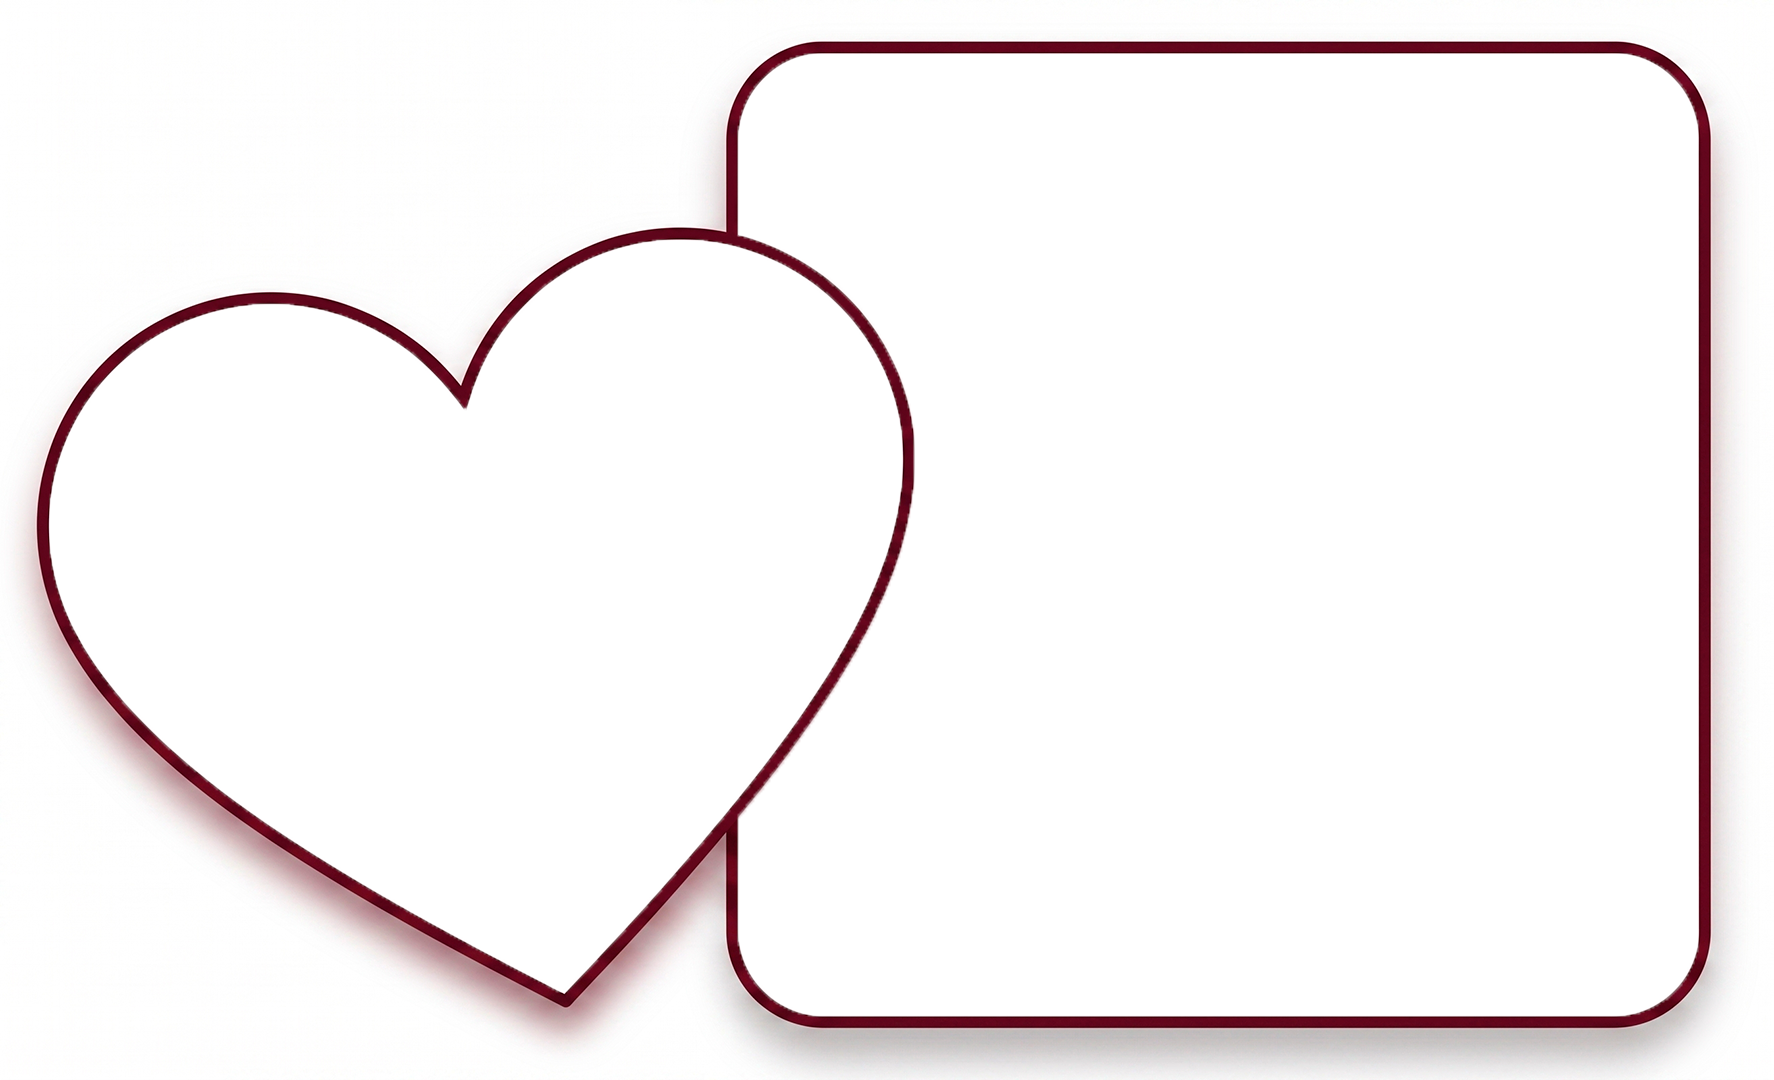
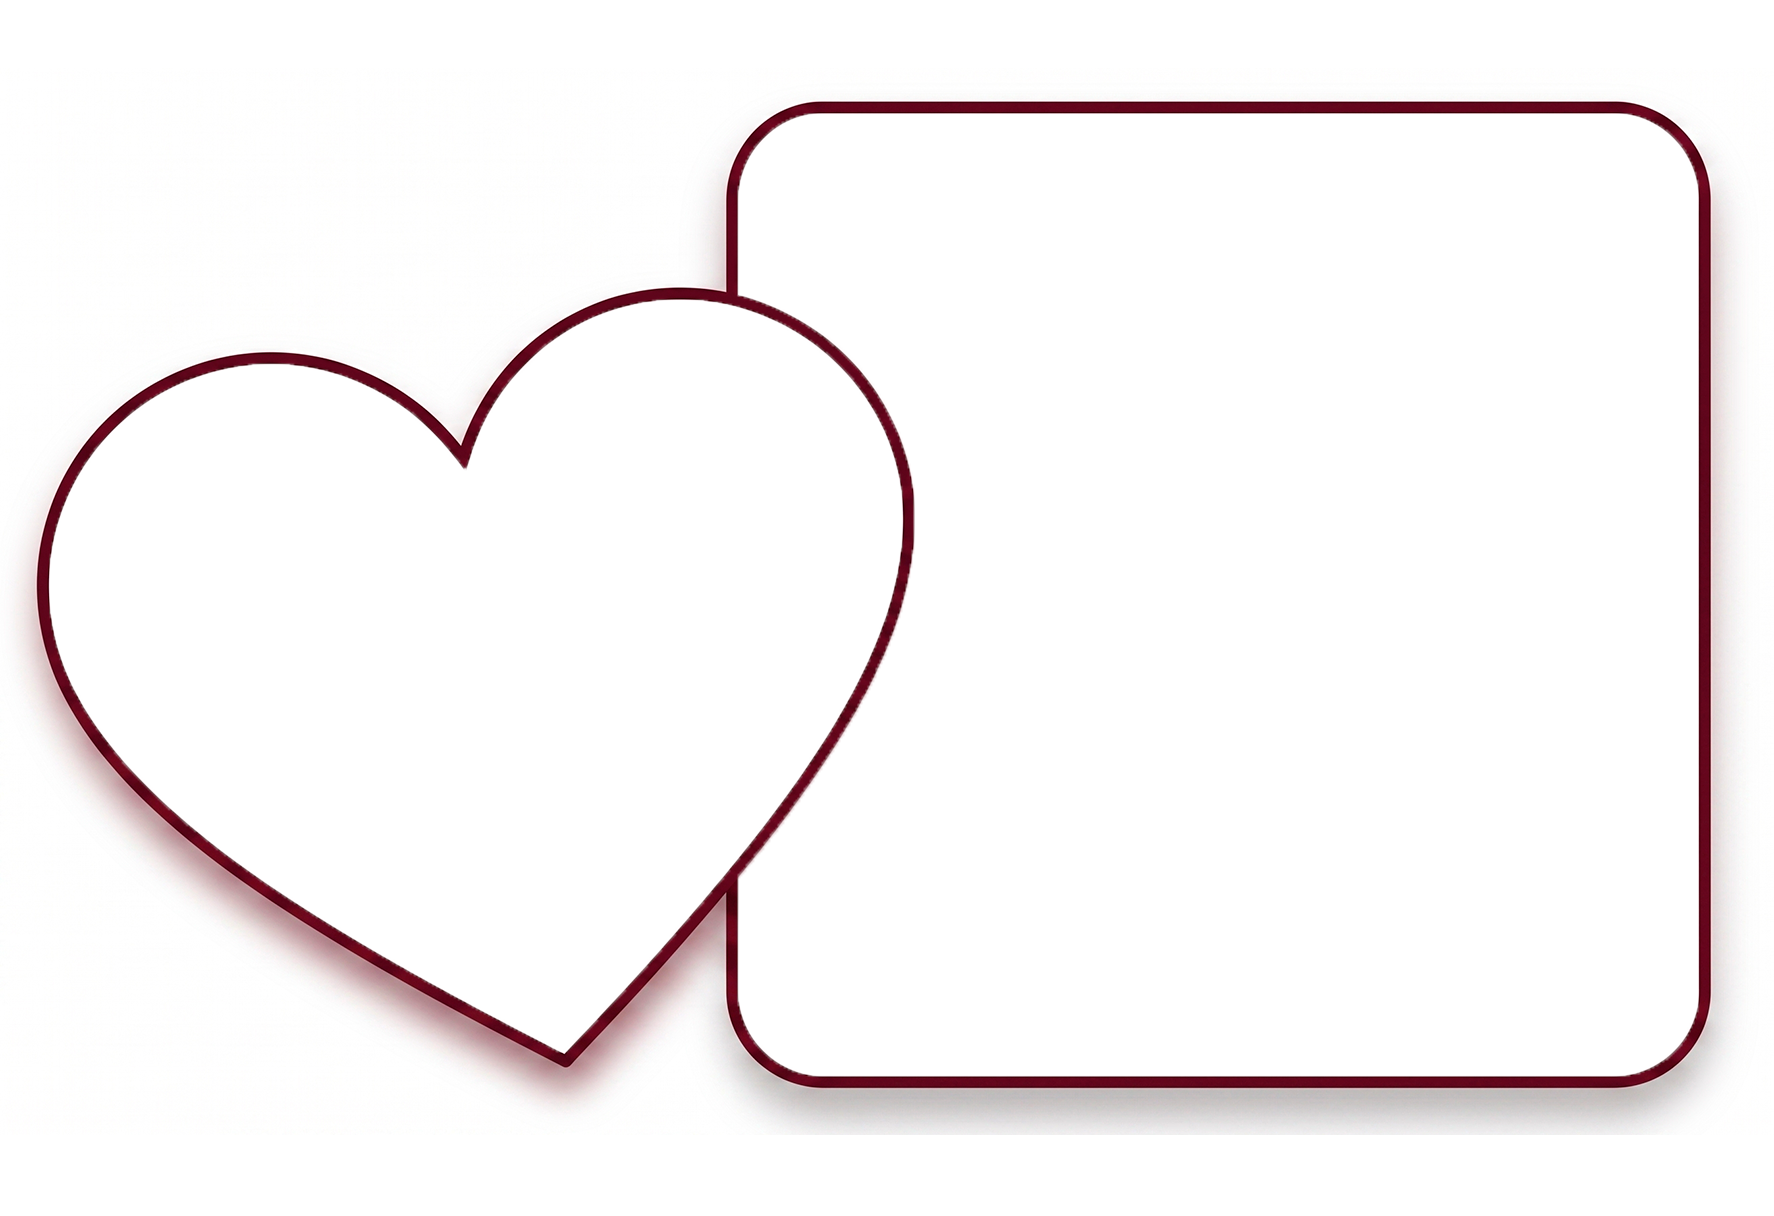
3 block roses

diff --git a/css/style.css b/css/style.css
@@ -74,6 +74,7 @@
 }
 
 .first-date {
+  position: relative;
   font-family: "FFGoodPro";
   font-weight: 200;
   text-align: center;
@@ -81,8 +82,9 @@
 }
 .first-date__sample {
   z-index: 1;
-  width: 50%;
-  margin-left: 25%;
+  width: 70%;
+  margin-left: 12.5vw;
+  display: flex;
 }
 .first-date__sample-img {
   width: 100%;
@@ -94,7 +96,100 @@
   margin-bottom: 3vw;
 }
 .first-date__subtitle {
+  z-index: 2;
   font-size: 3vw;
   margin-top: 3vw;
   margin-left: auto;
+  margin-bottom: 5vw;
+}
+.first-date__hearts-container {
+  position: absolute;
+  z-index: 1;
+  height: 30vw;
+  width: 100vw;
+  bottom: 0;
+}
+
+.heart {
+  position: absolute;
+  bottom: 0;
+  font-size: 24px;
+  animation: floatUp linear forwards;
+  -webkit-user-select: none;
+     -moz-user-select: none;
+          user-select: none;
+  color: #ff4d4d;
+  width: 10px;
+  height: 10px;
+}
+
+@keyframes floatUp {
+  0% {
+    transform: translateY(0);
+    opacity: 1;
+  }
+  100% {
+    transform: translateY(-600%);
+    opacity: 0;
+  }
+}
+.roses {
+  position: relative;
+  height: 80vw;
+}
+.roses__bg {
+  position: absolute;
+  width: 100vw;
+  z-index: 0;
+  -o-object-fit: contain;
+     object-fit: contain;
+}
+.roses__rose-l {
+  position: absolute;
+  z-index: 10;
+  width: 30%;
+  height: auto;
+  -o-object-fit: contain;
+     object-fit: contain;
+  -o-object-position: center;
+     object-position: center;
+  bottom: 0;
+  animation: roses-rotate-l 5s ease-in-out alternate infinite;
+}
+.roses__rose-r {
+  position: absolute;
+  right: 0;
+  bottom: 0;
+  z-index: 10;
+  width: 30%;
+  height: auto;
+  transform: scaleX(-1);
+  -o-object-fit: contain;
+     object-fit: contain;
+  -o-object-position: center;
+     object-position: center;
+  animation: roses-rotate-r 5s ease-in-out alternate infinite;
+}
+
+@keyframes roses-rotate-l {
+  0% {
+    transform: rotate(-10deg);
+  }
+  50% {
+    transform: rotate(10deg);
+  }
+  100% {
+    transform: rotate(-10deg);
+  }
+}
+@keyframes roses-rotate-r {
+  0% {
+    transform: rotate(10deg);
+  }
+  50% {
+    transform: rotate(-10deg);
+  }
+  100% {
+    transform: rotate(10deg);
+  }
 }/*# sourceMappingURL=style.css.map */

diff --git a/sass/_roses.scss b/sass/_roses.scss
@@ -1,0 +1,47 @@
+.roses{
+   position: relative;
+   height: 80vw;
+   &__bg{
+      position: absolute;
+      width: 100vw;
+      z-index: 0;
+      object-fit: contain;
+   }
+
+   &__rose-l{
+      position: absolute;
+      z-index: 10;
+      width: 30%;
+      height: auto;
+      object-fit: contain;
+      object-position: center;
+      bottom: 0;
+         animation: roses-rotate-l 5s ease-in-out alternate infinite;
+   }
+
+   &__rose-r{
+      position: absolute;
+      right: 0;
+      bottom: 0;
+      z-index: 10;
+      width: 30%;
+      height: auto;
+      transform: scaleX(-1);
+      object-fit: contain;
+      object-position: center;
+      animation: roses-rotate-r 5s ease-in-out alternate infinite;
+   }
+}
+
+
+@keyframes roses-rotate-l {
+   0% { transform: rotate(-10deg); }
+   50% { transform: rotate(10deg); }
+   100% { transform: rotate(-10deg); }
+}
+
+@keyframes roses-rotate-r {
+   0% { transform: rotate(10deg); }
+   50% { transform: rotate(-10deg); }
+   100% { transform: rotate(10deg); }
+}

diff --git a/sass/_first-date.scss b/sass/_first-date.scss
@@ -1,17 +1,22 @@
 .first-date{
+   position: relative;       
    font-family: 'FFGoodPro';
    font-weight: 200;
    text-align: center;
    padding-bottom: 4vw;
+   
    &__sample {
       z-index: 1;
-      width: 50%; 
-      margin-left: 25%;          
+      width: 70%; 
+      margin-left: 12.5vw;     
+      display: flex;   
    }
 
    &__sample-img{
-      width: 100%;
+      width: 100%;   
    }
+
+
 
    &__title{
       font-size: 4vw;
@@ -20,9 +25,43 @@
       margin-bottom: 3vw;
    }
    &__subtitle{
+      z-index: 2;
       font-size: 3vw;
       margin-top: 3vw;
       margin-left: auto;
+      margin-bottom: 5vw;
       
+   }
+   &__hearts-container{
+      position: absolute;
+      z-index: 1;
+      
+      height: 30vw;
+      width: 100vw;
+      bottom: 0;
+         
+   }
+}
+
+.heart {
+   
+   position: absolute;
+   bottom: 0;
+   font-size: 24px;
+   animation: floatUp linear forwards;
+   user-select: none;
+   color: #ff4d4d;
+   width: 10px;
+   height: 10px;
+}
+
+@keyframes floatUp {
+   0% {
+      transform: translateY(0);
+      opacity: 1;
+   }
+   100% {
+      transform: translateY(-600%);
+      opacity: 0;
    }
 }

diff --git a/js/hearts.js b/js/hearts.js
@@ -1,0 +1,25 @@
+const container = document.querySelector('.first-date__hearts-container');
+
+function createHeart() {
+   const heart = document.createElement('div');
+   heart.className = 'heart';   
+   heart.style.backgroundImage = 'url("images/heart.png")';
+   heart.style.left = Math.random() * 100 + '%'; 
+   heart.style.fontSize = Math.random() * 30 + 20 + 'px'; // 
+   // размер 20–50px
+   heart.style.width = Math.random() * 30 + 20 + 'px';   // ширина 20–50px
+   heart.style.height = heart.style.width;
+   heart.style.backgroundSize = 'contain';
+   heart.style.backgroundRepeat = 'no-repeat';
+   heart.style.backgroundPosition = 'center';
+   heart.style.animationDuration = Math.random() * 4 + 3 + 's'; 
+   
+   
+   container.appendChild(heart);
+
+   
+   setTimeout(() => heart.remove(), 7000);
+}
+
+
+setInterval(createHeart, 30);

diff --git a/index.html b/index.html
@@ -30,13 +30,22 @@
       <h1 class="first-date__title">
             НАША ПЕРВАЯ ВСТРЕЧА
       </h1>
+      
       <div class="first-date__sample">
          <img src="images\hearts-b2.png" alt="" class="first-date__sample-img">
+         
       </div>
-      <div class="first-date__hearts-container" id="hearts-containers">
-
-      </div>
+      
       <h2 class="first-date__subtitle">самое <strong style="color:rgb(179, 1, 1)">НЕЛОВКОЕ</strong> свидание...</h2>
+      <div class="first-date__hearts-container" id="hearts-containers">
+      </div>
+   </section>
+   <script src="js\hearts.js"></script>
+
+   <section class="roses">
+      <img src="images\roses-bg.png" alt="" class="roses__bg">
+      <img src="images\rose.png" alt="" class="roses__rose-l">
+      <img src="images\rose.png" alt="" class="roses__rose-r">
    </section>
 </body>
 </html>

diff --git a/sass/style.scss b/sass/style.scss
@@ -2,3 +2,4 @@
 @import '_header.scss';
 @import '_main.scss';
 @import '_first-date.scss';
+@import '_roses.scss';